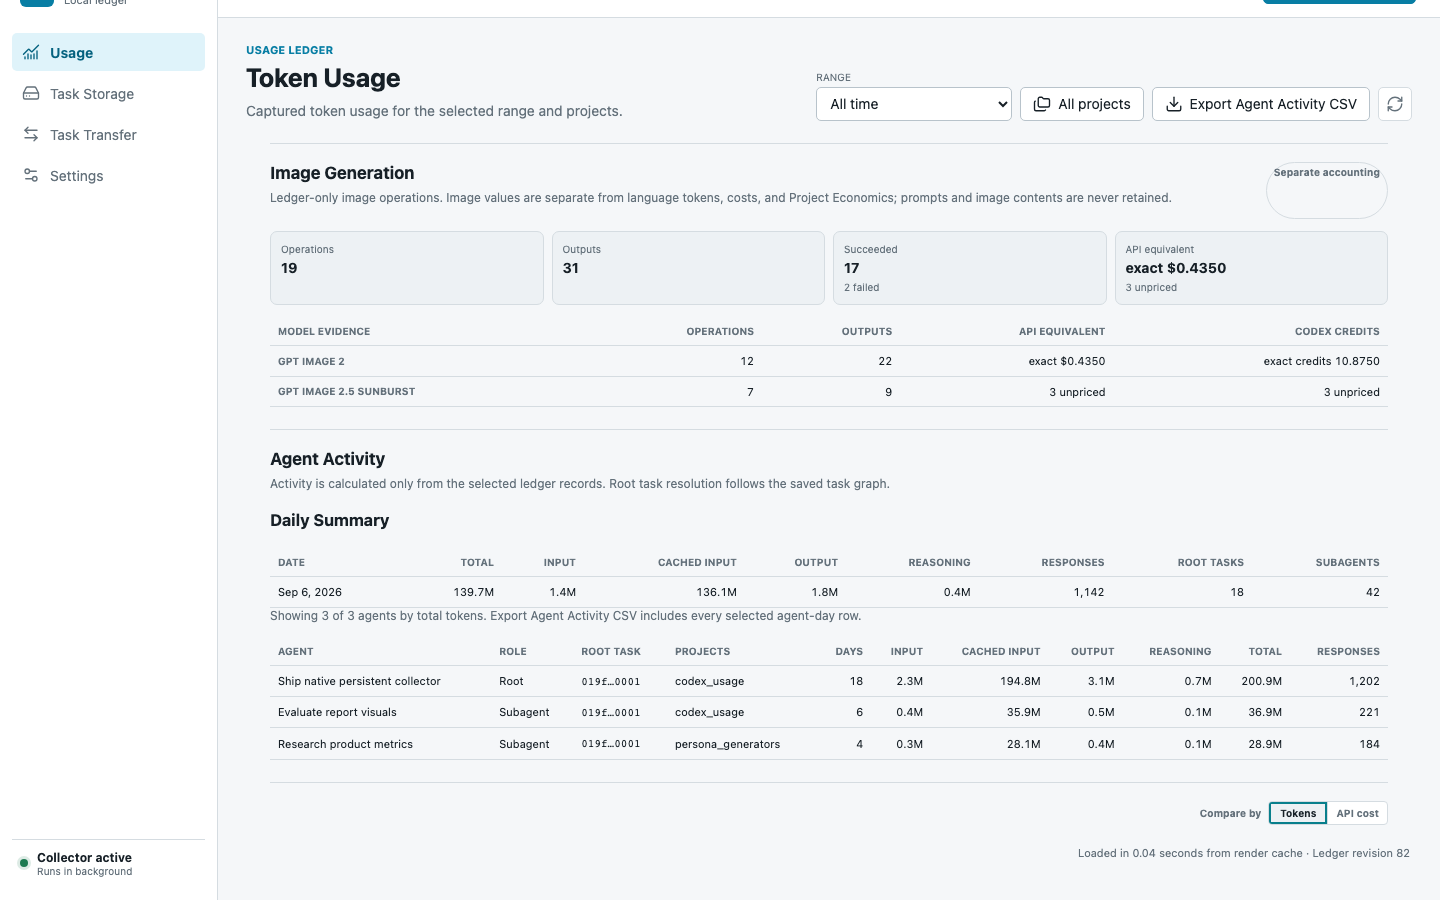
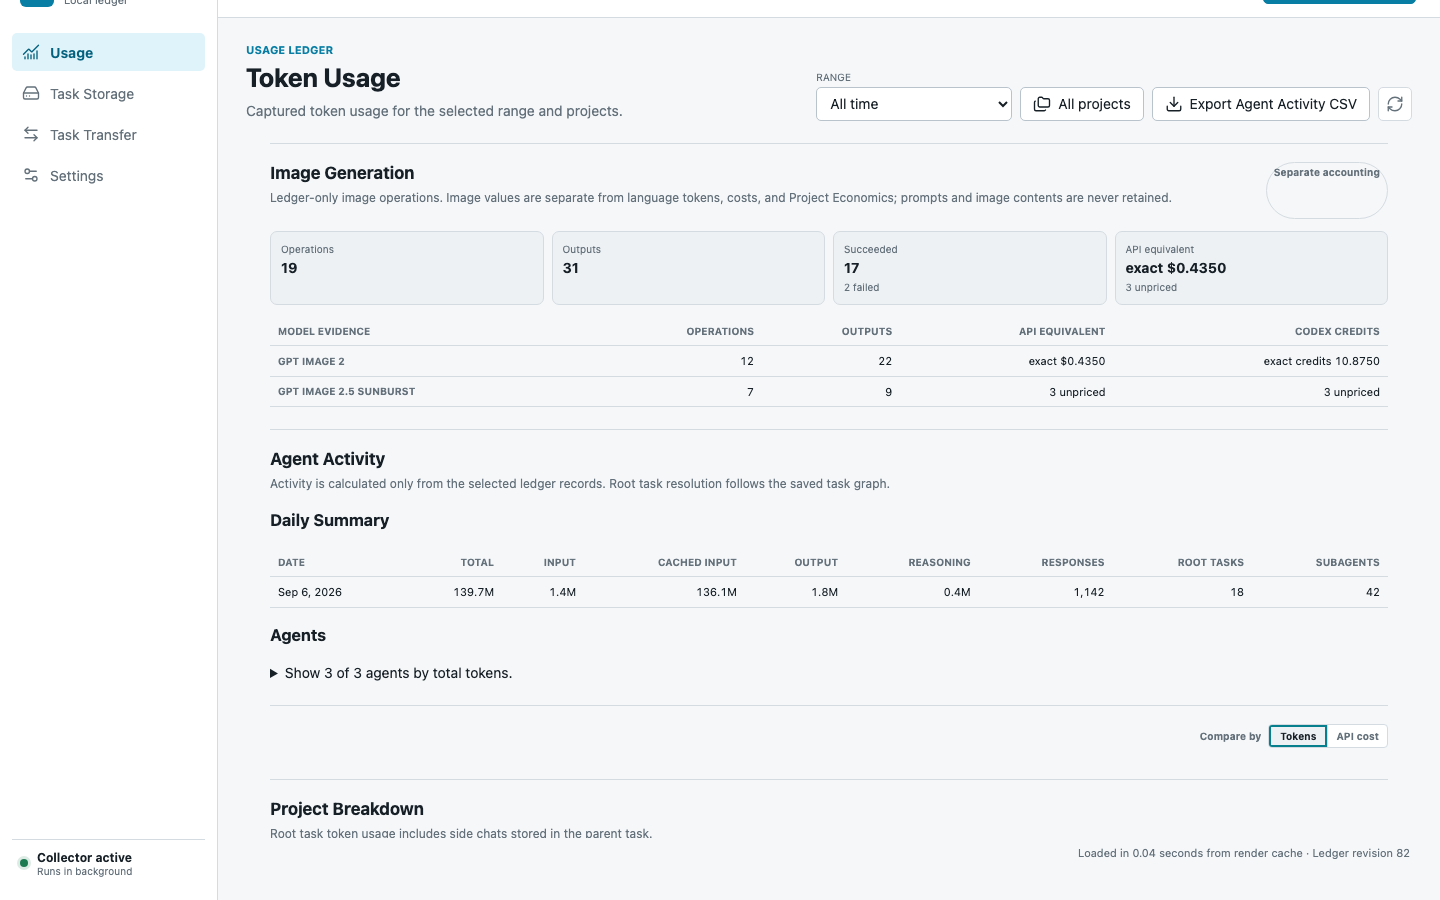
chore: prepare Codex Usage 2.7.1 release

Changed region(s): [[0.1875, 0.6844, 0.9688, 0.9333], [0.5625, 0.7156, 0.7188, 0.8089]]

diff --git a/extensions/vscode/src/extension.ts b/extensions/vscode/src/extension.ts
@@ -473,7 +473,7 @@ function controlState(): Pick<Parameters<typeof decorateUsageReport>[1], "range"
     range: selectedRange === "custom" ? customRangeLabel() : rangeLabel(selectedRange),
     theme: reportTheme(),
     projectCount: selectedProjects().length,
-    version: String(contextRef.extension.packageJSON.version ?? "2.7.0"),
+    version: String(contextRef.extension.packageJSON.version ?? "2.7.1"),
     lastCaptureAt: latestStatus?.last_capture_at ?? "",
   };
 }

diff --git a/apps/desktop/src/host.ts b/apps/desktop/src/host.ts
@@ -86,8 +86,8 @@ export async function checkForUpdate(): Promise<UpdateInfo> {
   if (!inTauri) {
     return {
       available: false,
-      current_version: "2.7.0",
-      version: "2.7.0",
+      current_version: "2.7.1",
+      version: "2.7.1",
       date: null,
       body: null,
     };

diff --git a/extensions/vscode/test/reportHtml.test.js b/extensions/vscode/test/reportHtml.test.js
@@ -14,7 +14,7 @@ const controls = {
   projectCount: 0,
   loadedSeconds: 0.04,
   cacheHit: true,
-  version: "2.7.0",
+  version: "2.7.1",
   view: "usage",
   lastCaptureAt: "2026-09-04T12:30:00Z",
 };

diff --git a/tests/test_image_backfill.py b/tests/test_image_backfill.py
@@ -14,7 +14,9 @@ from codex_usage import agent_capture, image_backfill
 from codex_usage.agent_capture import capture_once
 from codex_usage.agent_paths import ledger_database_path
 from codex_usage.image_backfill import (
+    IMAGE_BACKFILL_CAPTURE_BYTES,
     IMAGE_BACKFILL_SLICE_COUNT,
+    IMAGE_BACKFILL_SLICE_BYTES,
     ImageBackfillResult,
     run_image_backfill_slice,
 )
@@ -288,6 +290,8 @@ def test_backfill_scheduler_is_capped_at_four_slices(monkeypatch, tmp_path: Path
     result = image_backfill.run_image_backfill(tmp_path, tmp_path / "ledger.sqlite3")
 
     assert IMAGE_BACKFILL_SLICE_COUNT == 4
+    assert IMAGE_BACKFILL_SLICE_BYTES == 16 * 1024 * 1024
+    assert IMAGE_BACKFILL_CAPTURE_BYTES == 64 * 1024 * 1024
     assert calls == IMAGE_BACKFILL_SLICE_COUNT
     assert result.changed is True
 
@@ -309,6 +313,28 @@ def test_scheduler_prefers_recent_then_least_recently_served() -> None:
             {older_task, newer_task}, artifacts, {older_task: 4, newer_task: 9}
         )
         == older_task
+    )
+
+
+def test_scheduler_breaks_equal_priority_ties_deterministically() -> None:
+    lower_task = "11111111-1111-1111-1111-111111111111"
+    higher_task = "22222222-2222-2222-2222-222222222222"
+    artifacts = {
+        lower_task: image_backfill._ArtifactTask(1, 1),
+        higher_task: image_backfill._ArtifactTask(1, 1),
+    }
+
+    assert (
+        image_backfill._select_next_task({lower_task, higher_task}, artifacts, {})
+        == higher_task
+    )
+    assert (
+        image_backfill._select_next_task(
+            {lower_task, higher_task},
+            artifacts,
+            {lower_task: 4, higher_task: 4},
+        )
+        == lower_task
     )
 
 

diff --git a/tests/test_github_actions_workflow.py b/tests/test_github_actions_workflow.py
@@ -159,7 +159,7 @@ def test_preview_artifacts_include_hash_based_integrity_metadata(tmp_path: Path)
         )
 
 
-def test_release_metadata_is_consistently_2_7_0() -> None:
+def test_release_metadata_is_consistently_2_7_1() -> None:
     pyproject = tomllib.loads(PYPROJECT.read_text(encoding="utf-8"))
     uv_lock = tomllib.loads(UV_LOCK.read_text(encoding="utf-8"))
     extension = json.loads(EXTENSION_PACKAGE.read_text(encoding="utf-8"))
@@ -192,7 +192,7 @@ def test_release_metadata_is_consistently_2_7_0() -> None:
         cargo["package"]["version"],
         rust_package["version"],
     }
-    assert versions == {"2.7.0"}
+    assert versions == {"2.7.1"}
     assert "scripts" not in pyproject["project"]
     assert "preview" not in extension
 

diff --git a/src/codex_usage/reporting.py b/src/codex_usage/reporting.py
@@ -10,7 +10,10 @@ from typing import TextIO
 
 from codex_usage.aggregation import AggregateRow, UsageSummary
 from codex_usage.agent_activity import AgentActivity
-from codex_usage.report_agent_activity import render_agent_activity_section
+from codex_usage.report_agent_activity import (
+    agent_activity_css,
+    render_agent_activity_section,
+)
 from codex_usage.image_reporting import ImageReport
 from codex_usage.report_images import image_activity_css, render_image_activity_section
 from codex_usage.charts import (
@@ -245,6 +248,7 @@ def render_html_report(
   <style>
 {report_css()}
 {project_economics_css()}
+{agent_activity_css()}
 {image_activity_css()}
   </style>
 </head>

diff --git a/src/codex_usage/report_agent_activity.py b/src/codex_usage/report_agent_activity.py
@@ -6,6 +6,14 @@ from codex_usage.agent_activity import AgentActivity
 from codex_usage.report_tables import format_int
 
 
+def agent_activity_css() -> str:
+    """Return styles owned by the Agent Activity report section."""
+    return """
+    .agent-activity-agents { margin-top: 16px; }
+    .agent-activity-agents > summary { cursor: pointer; }
+    """
+
+
 def render_agent_activity_section(activity: AgentActivity | None) -> str:
     """Render the bounded Agent Activity dashboard from report-scoped data."""
     if activity is None:

diff --git a/tests/test_reporting_html.py b/tests/test_reporting_html.py
@@ -64,6 +64,8 @@ def test_dashboard_report_contains_fast_tooltip_charts_without_external_assets(
     assert '<html lang="en" data-codex-theme="night">' in html
     assert "--bg: #f5f7f9" in html
     assert "--night-bg: #101316" in html
+    assert ".agent-activity-agents { margin-top: 16px; }" in html
+    assert ".agent-activity-agents > summary { cursor: pointer; }" in html
     assert "body.vscode-dark" in html
     assert "body.vscode-high-contrast" in html
     assert "Projects: repo" in html

diff --git a/src/codex_usage/report_theme.py b/src/codex_usage/report_theme.py
@@ -421,8 +421,6 @@ def report_css() -> str:
     .heat-5 { fill: var(--heat-5); background: var(--heat-5); }
     .empty-chart { fill: var(--muted); font-size: 14px; }
     .table-wrap { overflow-x: auto; }
-    .agent-activity-agents { margin-top: 16px; }
-    .agent-activity-agents > summary { cursor: pointer; }
     .section-help { margin: -4px 0 10px; }
     .storage-intro { max-width: 840px; margin: -2px 0 8px; }
     .storage-summary { margin: 0 0 12px; font-variant-numeric: tabular-nums; }

diff --git a/tests/test_release_history.py b/tests/test_release_history.py
@@ -10,6 +10,7 @@ CHANGELOGS = (ROOT / "CHANGELOG.md", ROOT / "extensions/vscode/CHANGELOG.md")
 SUPPORT_DOCS = (ROOT / "SUPPORT.md", ROOT / "extensions/vscode/SUPPORT.md")
 
 ROOT_RELEASE_DATES = {
+    "2.7.1": "2026-09-12",
     "2.7.0": "2026-09-12",
     "2.6.0": "2026-09-10",
     "2.5.0": "2026-09-07",
@@ -83,6 +84,7 @@ ROOT_RELEASE_DATES = {
     "0.1.0": "2026-05-19",
 }
 EXTENSION_RELEASE_VERSIONS = (
+    "2.7.1",
     "2.7.0",
     "2.6.0",
     "2.5.0",

diff --git a/src/codex_usage/__init__.py b/src/codex_usage/__init__.py
@@ -1,3 +1,3 @@
 """Private capture and ledger core for the Codex Usage native app."""
 
-__version__ = "2.7.0"
+__version__ = "2.7.1"

diff --git a/README.md b/README.md
@@ -24,10 +24,12 @@ OpenAI API.
   without reopening task files. Long ranges retain a script-free **Week |
   Month** cost view inside the rendered report.
 - **Agent Activity:** inspect daily token and response deltas plus the top 50
-  agents in the dashboard, then export every selected agent-day row to CSV.
+  agents in a collapsed detail table, then export every selected agent-day row
+  to CSV; the Daily Summary stays visible.
 - **Image Generation:** inspect global, model, and project image operations
-  separately from language tokens and costs; incomplete or conflicting billing
-  evidence remains explicitly unpriced.
+  separately from language tokens and costs; historical coverage reports
+  complete, pending, unavailable, and artifact counts, while incomplete or
+  conflicting billing evidence remains explicit.
 - **Honest accounting:** Project Breakdown separates root tasks from structured
   subagents and stacks each role by model. Side chats remain disclosed under
   their parent root task when Codex stores no durable discriminator.
@@ -78,6 +80,12 @@ interval. Filesystem notifications only mark paths as dirty; notification
 callbacks never read task content. Overdue work after startup, sleep/wake, or a
 watcher recovery produces one catch-up rather than replaying every missed tick.
 
+Historical image recovery participates in startup, scheduled, and manual
+captures. Each capture reads at most four 16 MiB rollout slices (64 MiB total),
+serving new recent artifact owners first and then rotating the least recently
+served owners. Missing or ambiguous owners are reported as unavailable without
+blocking a valid owner from using the bounded slice.
+
 The status header shows the last capture, next scheduled capture, pending files
 and bytes, baseline progress, and stale-source warnings. Use **Capture Usage**
 when you want current data immediately.
@@ -106,12 +114,14 @@ Open **Usage** to review:
 - daily and hourly patterns, with all-history costs switchable between local-calendar Monday-through-Sunday weeks and calendar months while the detail table stays daily;
 - inclusive custom local-calendar dates, including single-day ranges, with
   daily charts through 90 days and readable Week/Month periods for longer spans;
-- Agent Activity daily totals and the highest-token agents, with a complete
-  host-saved CSV for the selected range and project filter;
+- Agent Activity daily totals with the highest-token agents collapsed by
+  default, plus a complete host-saved CSV for the selected range and project
+  filter;
 - ledger-only Project Economics with weighted all-project benchmarks plus
   project and model turn cost, density, coverage, and small-sample context;
 - ledger-only Image Generation operations, outputs, model evidence, and
-  expandable project coverage, with image values never added to language totals;
+  expandable project coverage, including explicit incomplete-history counts,
+  with image values never added to language totals;
 - project totals and project transitions;
 - root-task versus structured-subagent usage, split again by model;
 - exact model details, including unknown or currently unpriced usage.
